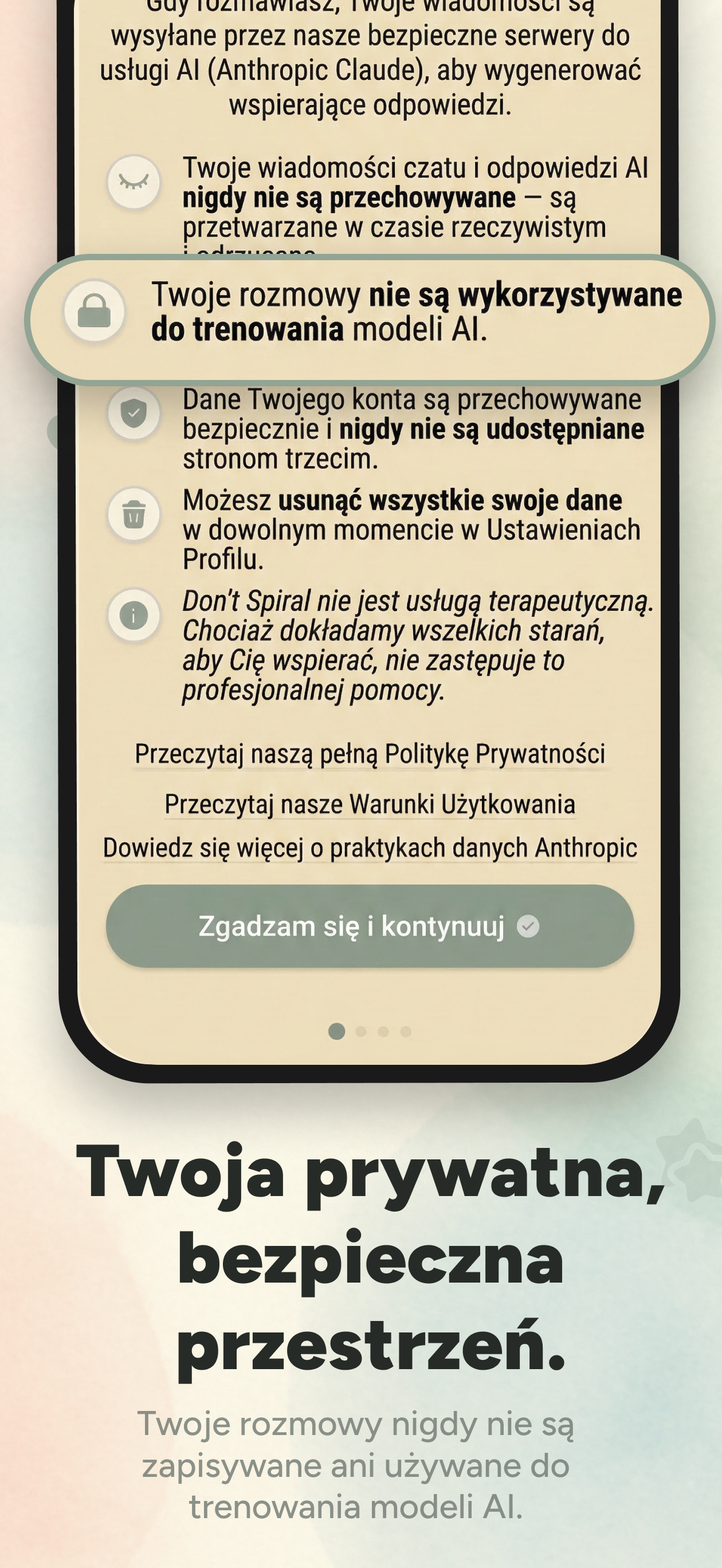
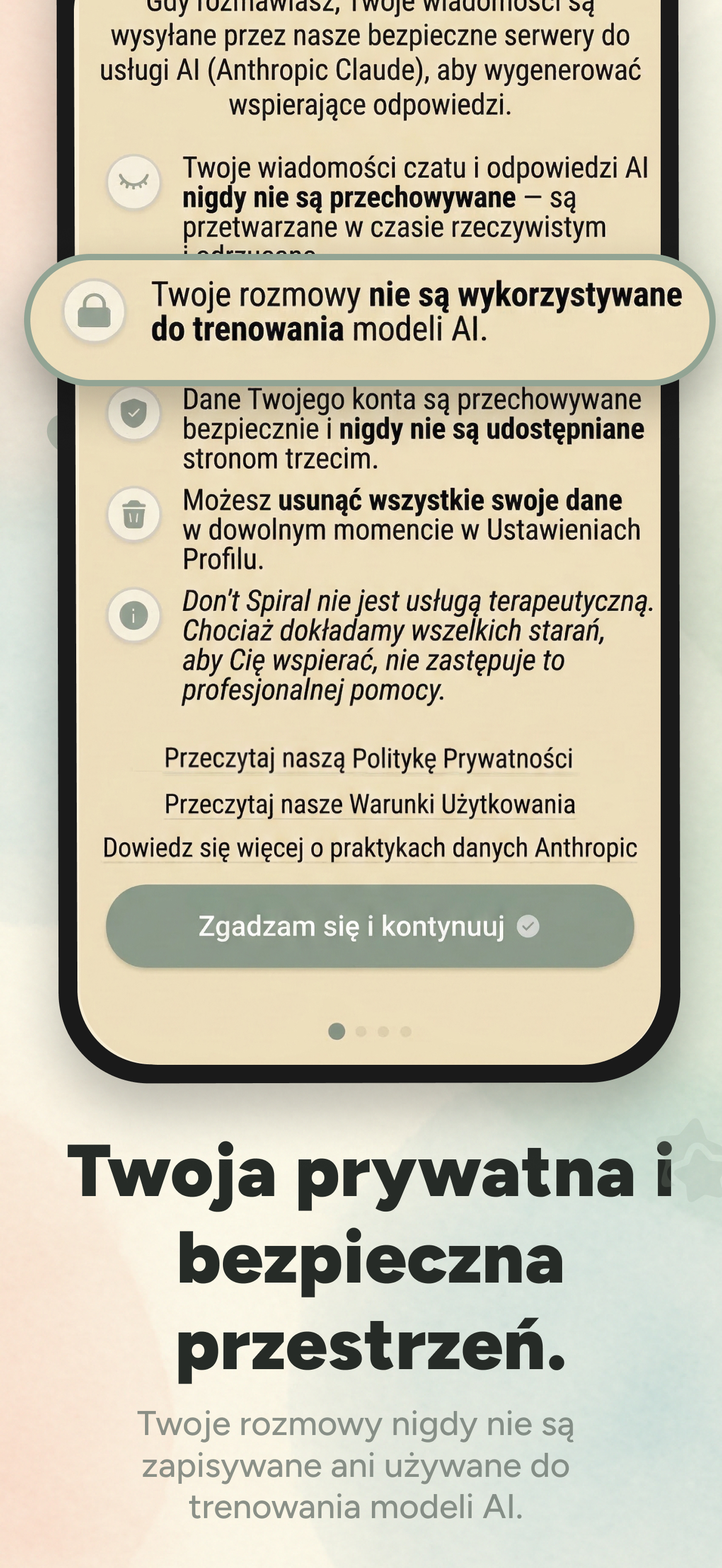
Add Pirsch analytics, store click tracking, and mobile smartlink
- Add Pirsch analytics script to all pages
- Track store badge clicks as conversion events with store/location metadata
- Redirect store links to go.dontspiral.app/web smartlink on mobile
- Update Polish screenshot (03)

Changed region(s): [[0.0929, 0.7145, 0.9286, 0.7767], [0.1857, 0.466, 0.8357, 0.4971]]

diff --git a/index.html b/index.html
@@ -744,6 +744,9 @@
       .store-badge { width: 100%; max-width: 240px; justify-content: center; }
     }
   </style>
+  <script defer src="https://api.pirsch.io/pa.js"
+    id="pianjs"
+    data-code="JOSoXTcPsxu1gh6iGg4310djRtBAIsmY"></script>
 </head>
 
 <body>
@@ -805,14 +808,14 @@
           <h1 data-i18n="hero.headline">Take a breath.</h1>
           <p class="hero-sub" data-i18n="hero.sub">A safe, judgment-free space to sort through your feelings before you react. Available 24/7 when the spiral hits.</p>
           <div class="store-badges">
-            <a href="https://apps.apple.com/app/id6758227509" class="store-badge" target="_blank" rel="noopener">
+            <a href="https://apps.apple.com/app/id6758227509" class="store-badge" target="_blank" rel="noopener" data-pirsch-event="Store Click" data-pirsch-meta-store="App Store" data-pirsch-meta-location="hero">
               <svg width="22" height="26" viewBox="0 0 22 26" fill="white"><path d="M17.8 13.6c0-2.8 2.3-4.1 2.4-4.2-1.3-1.9-3.3-2.2-4-2.2-1.7-.2-3.4 1-4.2 1s-2.2-1-3.7-1c-1.9 0-3.6 1.1-4.6 2.8-2 3.4-.5 8.5 1.4 11.3.9 1.4 2.1 2.9 3.5 2.8 1.4-.1 1.9-.9 3.6-.9s2.2.9 3.7.9 2.4-1.4 3.4-2.7c1.1-1.6 1.5-3.1 1.5-3.1C20.8 18 17.8 16.9 17.8 13.6zM15 5.4c.8-1 1.4-2.3 1.2-3.6-1.2 0-2.6.8-3.5 1.8-.7.9-1.4 2.3-1.2 3.6C12.8 7.3 14.2 6.4 15 5.4z"/></svg>
               <div class="store-badge-text">
                 <span class="store-badge-small" data-i18n="badge.apple.pre">Download on the</span>
                 <span class="store-badge-name">App Store</span>
               </div>
             </a>
-            <a href="https://play.google.com/store/apps/details?id=app.dontspiral" class="store-badge" target="_blank" rel="noopener">
+            <a href="https://play.google.com/store/apps/details?id=app.dontspiral" class="store-badge" target="_blank" rel="noopener" data-pirsch-event="Store Click" data-pirsch-meta-store="Google Play" data-pirsch-meta-location="hero">
               <svg width="22" height="24" viewBox="0 0 22 24" fill="white"><path d="M1.2 0.5C0.9 0.8 0.7 1.3 0.7 2v20c0 .7.2 1.2.5 1.5l.1.1L12.3 12.5v-.2-.2L1.3 0.4 1.2.5z"/><path d="M16 16.2l-3.7-3.7v-.2-.2l3.7-3.7.1.1 4.4 2.5c1.3.7 1.3 1.9 0 2.6l-4.4 2.5-.1.1z"/><path d="M16.1 16.1L12.3 12.3 1.2 23.5c.4.4 1.1.5 1.9.1l13-7.5"/><path d="M16.1 8.9l-13-7.4c-.8-.5-1.5-.4-1.9.1l11.1 11.1 3.8-3.8z"/></svg>
               <div class="store-badge-text">
                 <span class="store-badge-small" data-i18n="badge.google.pre">Get it on</span>
@@ -1013,14 +1016,14 @@ Something different.</h2>
         <h2 class="reveal" data-i18n="download.title">Ready to stop spiraling?</h2>
         <p class="download-sub reveal" data-i18n="download.sub">Free to download.</p>
         <div class="store-badges centered reveal">
-          <a href="https://apps.apple.com/app/id6758227509" class="store-badge" target="_blank" rel="noopener">
+          <a href="https://apps.apple.com/app/id6758227509" class="store-badge" target="_blank" rel="noopener" data-pirsch-event="Store Click" data-pirsch-meta-store="App Store" data-pirsch-meta-location="bottom">
             <svg width="22" height="26" viewBox="0 0 22 26" fill="white"><path d="M17.8 13.6c0-2.8 2.3-4.1 2.4-4.2-1.3-1.9-3.3-2.2-4-2.2-1.7-.2-3.4 1-4.2 1s-2.2-1-3.7-1c-1.9 0-3.6 1.1-4.6 2.8-2 3.4-.5 8.5 1.4 11.3.9 1.4 2.1 2.9 3.5 2.8 1.4-.1 1.9-.9 3.6-.9s2.2.9 3.7.9 2.4-1.4 3.4-2.7c1.1-1.6 1.5-3.1 1.5-3.1C20.8 18 17.8 16.9 17.8 13.6zM15 5.4c.8-1 1.4-2.3 1.2-3.6-1.2 0-2.6.8-3.5 1.8-.7.9-1.4 2.3-1.2 3.6C12.8 7.3 14.2 6.4 15 5.4z"/></svg>
             <div class="store-badge-text">
               <span class="store-badge-small" data-i18n="badge.apple.pre">Download on the</span>
               <span class="store-badge-name">App Store</span>
             </div>
           </a>
-          <a href="https://play.google.com/store/apps/details?id=app.dontspiral" class="store-badge" target="_blank" rel="noopener">
+          <a href="https://play.google.com/store/apps/details?id=app.dontspiral" class="store-badge" target="_blank" rel="noopener" data-pirsch-event="Store Click" data-pirsch-meta-store="Google Play" data-pirsch-meta-location="bottom">
             <svg width="22" height="24" viewBox="0 0 22 24" fill="white"><path d="M1.2 0.5C0.9 0.8 0.7 1.3 0.7 2v20c0 .7.2 1.2.5 1.5l.1.1L12.3 12.5v-.2-.2L1.3 0.4 1.2.5z"/><path d="M16 16.2l-3.7-3.7v-.2-.2l3.7-3.7.1.1 4.4 2.5c1.3.7 1.3 1.9 0 2.6l-4.4 2.5-.1.1z"/><path d="M16.1 16.1L12.3 12.3 1.2 23.5c.4.4 1.1.5 1.9.1l13-7.5"/><path d="M16.1 8.9l-13-7.4c-.8-.5-1.5-.4-1.9.1l11.1 11.1 3.8-3.8z"/></svg>
             <div class="store-badge-text">
               <span class="store-badge-small" data-i18n="badge.google.pre">Get it on</span>
@@ -1299,6 +1302,13 @@ Something different.</h2>
 
     /* ===== APP LOGIC ===== */
     document.addEventListener('DOMContentLoaded', () => {
+      /* -- Smartlink on mobile -- */
+      if (/iPhone|iPad|iPod|Android/i.test(navigator.userAgent)) {
+        document.querySelectorAll('.store-badge').forEach(a => {
+          a.href = 'https://go.dontspiral.app/web';
+        });
+      }
+
       const header = document.getElementById('site-header');
       const hamburger = document.getElementById('hamburger');
       const navLinks = document.getElementById('nav-links');

diff --git a/privacy.html b/privacy.html
@@ -24,6 +24,9 @@
     nav { margin-bottom: 24px; font-size: 0.95rem; }
     nav a { margin-right: 16px; }
   </style>
+  <script defer src="https://api.pirsch.io/pa.js"
+    id="pianjs"
+    data-code="JOSoXTcPsxu1gh6iGg4310djRtBAIsmY"></script>
 </head>
 <body>
   <nav>

diff --git a/terms.html b/terms.html
@@ -24,6 +24,9 @@
     nav { margin-bottom: 24px; font-size: 0.95rem; }
     nav a { margin-right: 16px; }
   </style>
+  <script defer src="https://api.pirsch.io/pa.js"
+    id="pianjs"
+    data-code="JOSoXTcPsxu1gh6iGg4310djRtBAIsmY"></script>
 </head>
 <body>
   <nav>
